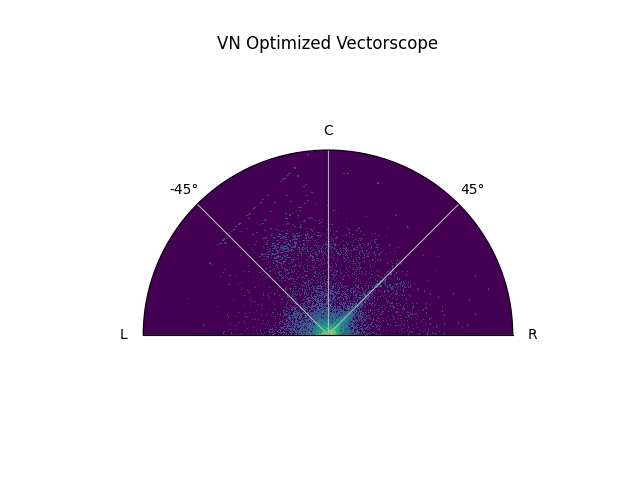
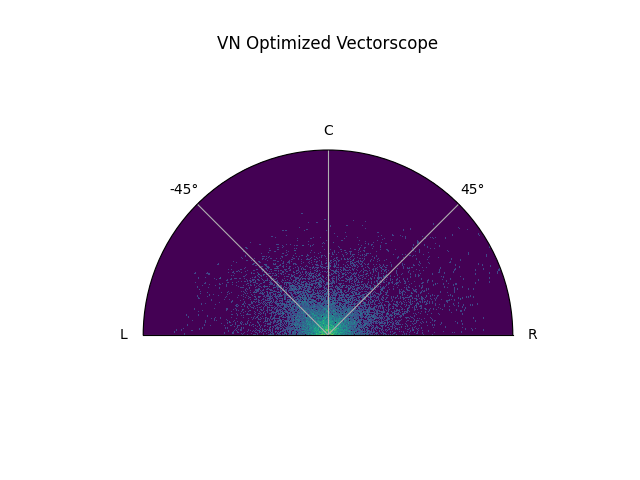
fix: symmetry aware objective

Changed region(s): [[0.3438, 0.4688, 0.6875, 0.7188]]

diff --git a/src/vndecorrelate/optimization.py b/src/vndecorrelate/optimization.py
@@ -105,11 +105,13 @@ def symmetry_aware_objective(
     return -objective  # minimizer convention
 
 
-def grid_scan(input_signal: NDArray, decorrelators: list[Decorrelator]) -> NDArray:
+def grid_scan(
+    input_signal: NDArray, decorrelators: list[Decorrelator], **kwargs
+) -> NDArray:
     print('Starting Grid Scan')
     return np.array(
         [
-            symmetry_aware_objective(input_signal, decorrelator)
+            symmetry_aware_objective(input_signal, decorrelator, **kwargs)
             for decorrelator in decorrelators
         ]
     )
@@ -191,7 +193,15 @@ def optimize_haas_delay(
         for tau in taus
     ]
 
-    scores = grid_scan(input_signal, haas_effect_decorrelators)
+    scores = grid_scan(
+        input_signal,
+        haas_effect_decorrelators,
+        angle_limit=angle_limit,
+        lambda_mean=lambda_mean,
+        lambda_skew=lambda_skew,
+        lambda_correlation=lambda_correlation,
+        lambda_penalty=lambda_penalty,
+    )
 
     # Identify local minima (best candidate regions)
     # A local min at index i: scores[i] < scores[i-1] and scores[i] < scores[i+1]
@@ -261,7 +271,15 @@ def optimize_velvet_noise(
         for kappa in kappas
     ]
 
-    scores = grid_scan(input_signal, velvet_noise_decorrelators)
+    scores = grid_scan(
+        input_signal,
+        velvet_noise_decorrelators,
+        angle_limit=angle_limit,
+        lambda_mean=lambda_mean,
+        lambda_skew=lambda_skew,
+        lambda_correlation=lambda_correlation,
+        lambda_penalty=lambda_penalty,
+    )
 
     # Identify local minima (best candidate regions)
     # A local min at index i: scores[i] < scores[i-1] and scores[i] < scores[i+1]